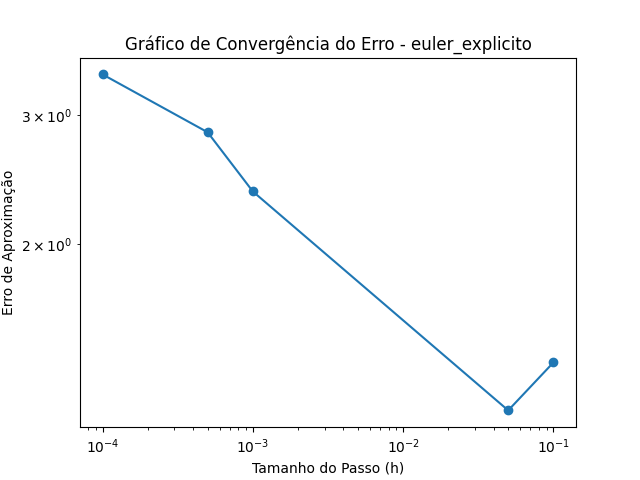
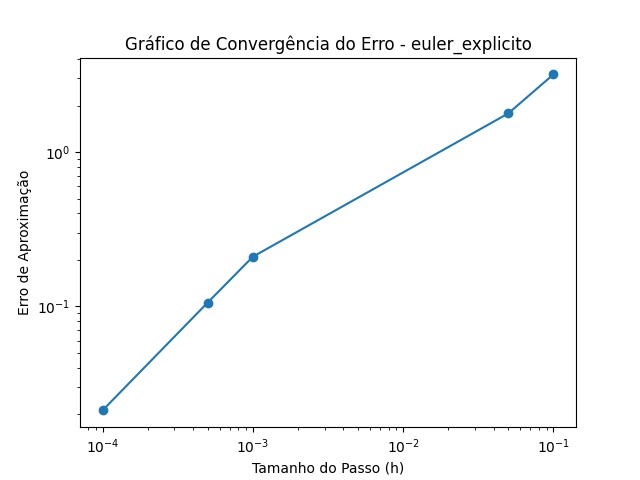
arrumando

diff --git a/02/Metodos.py b/02/Metodos.py
@@ -1,8 +1,9 @@
 import numpy as np
 import matplotlib.pyplot as plt
-from scipy.special import ellipj
-from scipy.special import ellipk
-from scipy.optimize import newton
+from scipy.special import ellipj  # type: ignore
+from scipy.special import ellipk  # type: ignore
+from scipy.optimize import newton  # type: ignore
+
 import os
 import time
 
@@ -16,7 +17,7 @@ class Metodos:
         self.num_passos = num_passos
         self.tf = t0 + h*num_passos
 
-        self.u_ref = self.sol_referencia()
+        self.u_ref = self.sol_referencia(t0, u0)
 
         self.t_euler_e, self.u_euler_e = self.euler_explicito(
             t0, u0, h, num_passos)
@@ -93,7 +94,7 @@ class Metodos:
 
         return jac
 
-    def sol_referencia(self):
+    def sol_referencia(self, t, u):
         """
         Calcula a solução de referência do sistema de equações diferenciais.
 
@@ -102,20 +103,20 @@ class Metodos:
 
         Example:
             >>> obj = MyClass()
-            >>> obj.u0 = [0.5, 1.0]
-            >>> obj.tf = 2.0
+            >>> obj.u = [0.5, 1.0]
+            >>> obj.t = 2.0
             >>> obj.sol_referencia()
             array([ 3.01190207, -0.15623905])
         """
 
         # Variável auxiliar
-        k_0 = np.sin(0.5*self.u0[0])
+        k_0 = np.sin(0.5*u[0])
 
         # Integral elíptica incompleta de primeira espécie
         K = ellipk(k_0**2)
 
         # Funções elípticas de Jacobi: sn e cn
-        sn, cn, dn, ph = ellipj(K - self.tf, k_0**2)
+        sn, cn, dn, ph = ellipj(K - t, k_0**2)
 
         # Deslocamento angular
         q = 2*np.arcsin(k_0*sn)
@@ -184,10 +185,10 @@ class Metodos:
             f_i = self.f(u_i, t_i)
 
             t_prox = t_i + h
-            u_prox_corr = u_i + (h / 2) * (3 * f_i - self.f(u[i-1], t[i-1]))
+            u_prox_pred = u_i + (h / 2) * (3 * f_i - self.f(u[i-1], t[i-1]))
 
             t.append(t_prox)
-            u.append(u_prox_corr)
+            u.append(u_prox_pred)
 
         return t, u
 
@@ -301,6 +302,10 @@ class Metodos:
             u2_vals = [u[1] for u in self.u_PC]
             t = self.t_PC
 
+        else:
+            print("Titulo invalido")
+            return None
+
         # Plotar o gráfico de u1(t) e u2(t) no mesmo gráfico
         plt.figure(figsize=(10, 6))
         plt.plot(t, u1_vals, 'b-', label='Posição Angular (u1)')
@@ -329,8 +334,12 @@ class Metodos:
         # Cálculo e plotagem da ordem de convergência temporal para o método de Euler explícito
         error_list = []
         for h in h_values:
-            t, u = metodo(self.t0, self.u0, h, self.num_passos)
-            error = self.calculate_error(self.u_ref, u)
+            t, u_metodo = metodo(self.t0, self.u0, h, self.num_passos)
+
+            u_ref = self.sol_referencia(self.t0, self.u0)
+
+            error = self.calculate_error(u_ref, u_metodo)
+
             error_list.append(error)
 
         # Plotagem do gráfico de convergência do erro de aproximação
@@ -367,7 +376,7 @@ class Metodos:
         # Calculando o erro relativo
         erro_relativo = norma_max / np.amax(y_exact - y_approx)
 
-        return erro_relativo
+        return norma_max
 
     def plot_grafico_fase(self, metodo, titulo):
 
@@ -375,7 +384,7 @@ class Metodos:
 
         # Plotando o gráfico de fase
         plt.figure(figsize=(10, 6))
-        plt.plot(u[:][0], u[:][1], label=titulo)
+        plt.plot(u[0][0], u[:][1], label=titulo)
 
         plt.xlabel('Posição Angular (u[1])')
         plt.ylabel('Velocidade Angular (u[2]')
